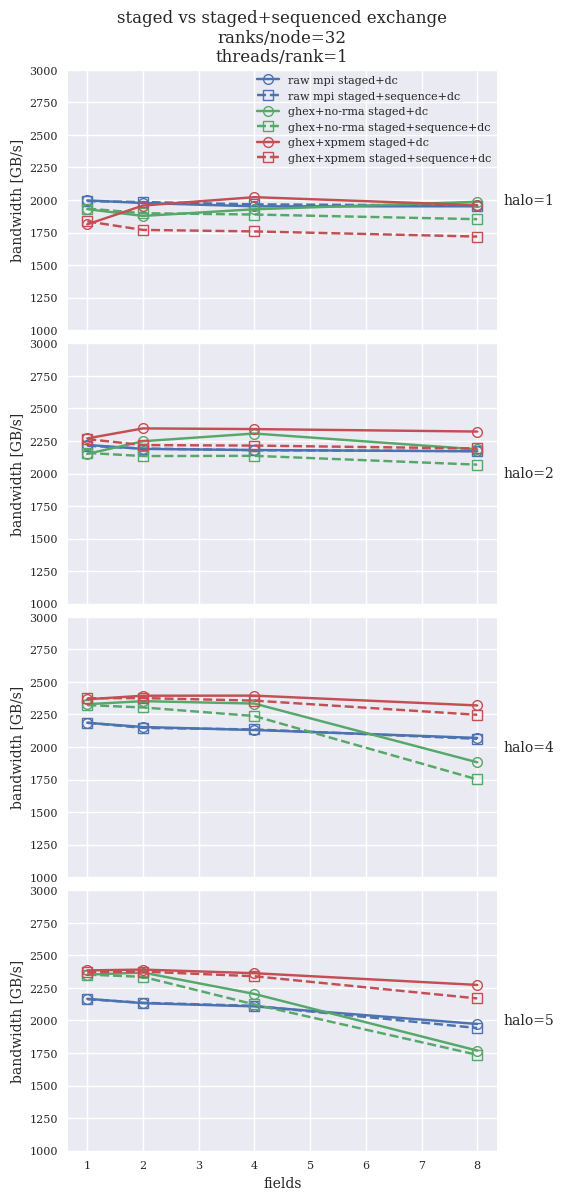
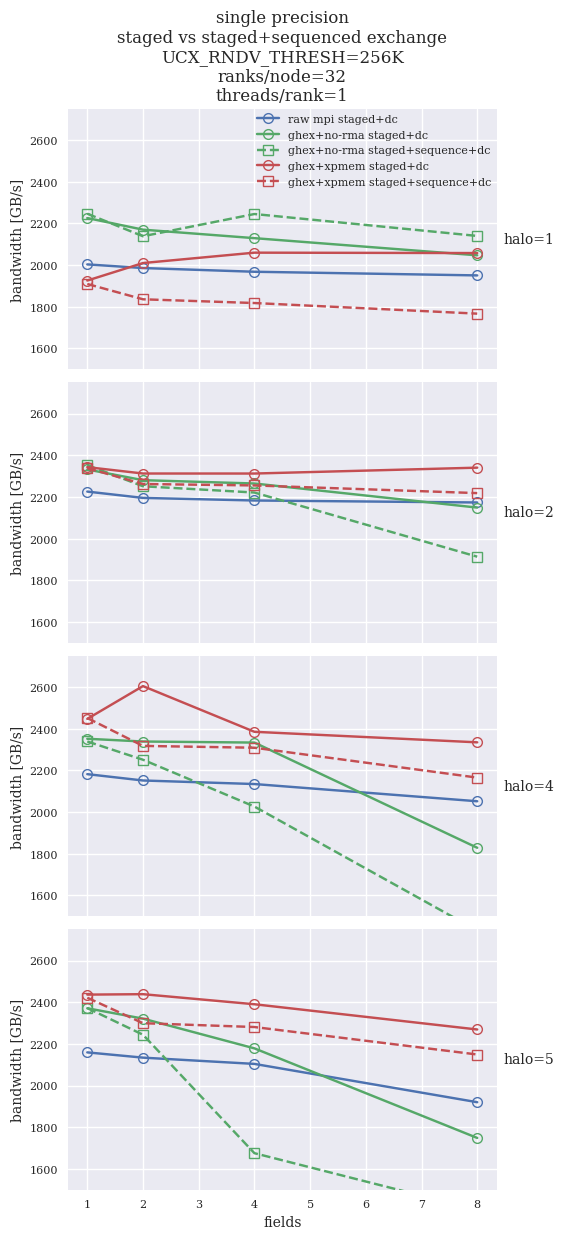
rndv threashold more results

diff --git a/results/betzy/27_nodes/plots.md b/results/betzy/27_nodes/plots.md
@@ -1,34 +1,53 @@
-## Comparison of various 27-nodes results
+## 27-nodes results for `halfcores` configuration
 
-All tests have been run with 64^3 per-rank grids, `halfcores` (64 ranks per compute node, `hwcart` decomposition  
-`--node 3 3 3 --socket 1 1 2 --numa 1 2 2 --l3 2 2 1 --core 2 1 1`.
+27 nodes are the smallest number of compute nodes, for which the communication pattern is representative
+of a large-scale computation. For single-node tests all data transfers are local, and hence the fabric
+is not used. For less than 27 nodes, some nodes will effectively be both left- and right-side neighbor,
+hence the communication pattern is different than for real-world applications. With 27 nodes, each node
+has to effectively distribute the halos to 26 other compute nodes.
+
+Below are results of weak-scaling runs with a 64^3 computational grid per-rank. Unless otherwise stated
+we used a single precision `float`. `halfcores` configuration was used with 64 ranks per compute node, 
+`hwcart` decomposition `--node 3 3 3 --socket 1 1 2 --numa 1 2 2 --l3 2 2 1 --core 2 1 1`.
 
 Plots present cumulative effective memory bandwidth of the exchange operation (more=better).
 
-[Standard algorithm](#standard-algorithm)  
-&nbsp; &nbsp;  [`impi` vs `ompi`](#impi-vs-ompi)  
-&nbsp; &nbsp;  [UCX vs MPI](#ucx-vs-mpi)  
-[Staged algorithm](#staged-algorithm)  
-&nbsp; &nbsp;  [`impi` vs `ompi`](#impi-vs-ompi-1)  
-&nbsp; &nbsp;  [UCX vs MPI](#ucx-vs-mpi-1)  
-[Sequenced algorithm](#sequenced-algorithm)  
+* [Standard algorithm](#standard-algorithm)  
+    * [Impact of `UCX_RNDV_THRS`](#impact-of-ucx_rndv_thresh)  
+    * [Infiniband transport (DC vs UD)](#infiniband-transport-dc-vs-ud)  
+    * [UCX vs MPI](#ucx-vs-mpi)  
+    * [`impi` vs `ompi`](#impi-vs-ompi)  
+* [Staged algorithm](#staged-algorithm)  
+    * [Infiniband transport (DC vs UD)](#infiniband-transport-dc-vs-ud-1)  
+    * [UCX vs MPI](#ucx-vs-mpi-1)  
+    * [`impi` vs `ompi`](#impi-vs-ompi-1)  
+* [Sequenced algorithm](#sequenced-algorithm)  
+    * [Standard vs. sequenced](#standard-vs-sequenced)  
+    * [Staged vs. sequenced+staged](#staged-vs-sequencedstaged)
+* [`single` vs `double`](#single-vs-double)  
 
 ### Standard algorithm
 
-Standard algorithm means that each rank performs explicit halo exchanges with each of the 26 neigobors. For
-multiple fields the data is packed into a single array and sent in one large message.
+In the *standard algorithm* each rank performs explicit halo exchanges with each of the 26 neigobors. For
+multiple fields the halo data is packed into a single array and sent in one large message.
 
 The standard algorithm is implemented in all the `ghex` variants of the benchmark. 
 The raw MPI version of the benchmark implements the [staged algorithm of the 3D halo exchange](#staged-algorithm).
+As will be seen in the plots, the standard algorithm is in general inferior in performance to the
+raw MPI implementation, but there are important exceptions.
 
-#### `impi` vs `ompi`
+#### Impact of `UCX_RNDV_THRESH`
 
-Only `benchmark_mpi_comm` was executed with the Intel compiler. The problem is that
-the `ghex_comm` variants take much too long time to initialize. From the comparison it
-seems that Intel MPI is considerably worse for small halos, and starts to perform similar
-starting from halo ~4.
+The default value of `UCX_RNDV_THRESH` (the onset of large message transfer with zero-copy RMA) 
+in UCX is 8KB for the send/recv methods used in GHEX. It turns out that the performace is in most cases 
+better on this architecture when `UCX_RNDV_THRESH=256K` and
+`UCX_ZCOPY_THRESH=256K`. The figure below shows the impact of running GHEX and the raw MPI codes with and without overriding 
+`UCX_RNDV_THRESH` and `UCX_ZCOPY_THRESH` (always both values are set to 256K).
+Notably, the largest impact is observed for halo 1, in which case this setting results in GHEX performing significantly
+better than the raw MPI implementation. This is not the case for larger halos: in this case raw MPI implementation is
+better.
 
-![ompi vs. impi](betzy_ompi_vs_impi.png)
+![ompi vs. impi](betzy_standard+dc_vs_standard+dc+thrs.png)
 
 #### Infiniband transport (DC vs UD)
 
@@ -49,45 +68,42 @@ Here we compare the two supported backends - UCX and MPI - with both DC (left) a
 We can again see that the UD transport affects the performance of both `ghex+no-rma` variants, and that DC is clearly
 better in this case.
 
-UCX yields better performance for most `no-rma` variants, but seems to be worse for the `xpmem` variant. 
-The reasons are not understood.
+UCX is sometimes worse than the MPI version. The reasons are not understood, but this difference can likely be 
+removed by optimizing the `UCX_RNDV_THRESH` parameters, as is the case with the [staged algorithm.](#staged-algorithm)
 
-In most cases the raw MPI implementation is better than any of the `ghex` variants. Interestingly, the MPI backend
-does well for halo 1. This is NOT the case for the UCX backend, which is also not understood.
+Except for halo 1 the raw MPI implementation is better than any of the standar `ghex` variants.
 
 
 UCX vs MPI, DC transport             |  UCX vs MPI, UD transport
 :-------------------------:|:-------------------------:
 ![](betzy_ucx+dc_vs_mpi+dc.png)  |  ![](betzy_ucx+ud_vs_mpi+ud.png)
 
+#### `impi` vs `ompi`
+
+Only `benchmark_mpi_comm` was executed with the Intel compiler. The problem is that
+the `ghex_comm` variants take much too long time to initialize. From the comparison it
+seems that Intel MPI is considerably worse for small halos, and starts to perform similar
+starting from halo ~4.
+
+![ompi vs. impi](betzy_ompi_vs_impi.png)
+
 
 ### Staged algorithm
 
-The staged algorithm of the 3D halo exchange performs 3 ordered one-dimensional halo exchanges one after another.
+The staged algorithm of 3D halo exchange performs 3 ordered one-dimensional halo exchanges one after another.
 The subsequent steps also distribute the data received in previus steps, hence the algorithm is equivalent to a full 
-halo exchange with 26 neighbors. However, it performs the exchange in 6 messages rather than 26, which as will be demonstrated
-has a signifficant impact on performance.
-
-#### `impi` vs `ompi`
-
-Here all the benchmarks are compared for both compilers, as in the case of the staged algorithm the overhead
-of the initialization phase has been eliminated.
-
-For small halos, the raw MPI version performs better with `ompi`. For halo size 4+ performance is more similar,
-with `ompi` still having a small advantage`.
-
-In general, for all `ghex` variants performance is better with `ompi` than `impi`. However, it should be noted that
-the `no-rma` variant seems to scale differently with `impi`: for halo 4 and 5 the performance curve is roughly flat, 
-while for `ompi` the performance starts high, and then falls for 4 and 8 fields.
-
-![staged ompi vs. impi](betzy_staged+ompi_vs_staged+impi.png)
+halo exchange with 26 neighbors. However, it performs the exchange in 6 messages rather than 26, which has a signifficant 
+impact on performance.
 
 #### Infiniband transport (DC vs UD)
 
-The below plot shows performance of `ghex+ucx` variants with different IB transport. 
-For halo 1 all codes yield roughly similar performance as the raw MPI implementation, except for maybe 1 field.
-The `no-rma` variant is slightly worse for small problems.
+The below plot shows performance of `ghex+ucx` variants with different IB transport. For raw MPI implementation
+the choice of the transport is not important, except for a small difference for halo 1 (UD is better).
+For GHEX, the larger the problem, the better DC is performing.
 
+In general, GHEX can always outperform the raw MPI implementation. For halo 1 and 1-4 fields it's best to use
+the `no-rma` variant. In all other cases `xpmem` variant is equally good, or better. Note that for halo 1 it still seems to
+be better to use the [standard algorithm](#infiniband-transport-dc-vs-ud).
 For halos larger than 1 we see a clear advantage of the `xpmem` variant with the DC transport. It outperforms the raw
 MPI version for all number of fields. 
 
@@ -96,39 +112,54 @@ MPI version for all number of fields.
 #### UCX vs MPI
 
 Here we compare the two supported backends - UCX and MPI - with both DC (left) and UD (right) transports.
-We can again see that the UD transport affects the performance of both `ghex+no-rma` variants, and that DC is clearly
-better in this case.
+We can again see that the UD transport negatively affects the performance in most cases.
 
-As with the standard algorithm, UCX yields better performance for most `no-rma` variants. 
-The situation is more complex for the `xpmem` variant. While UCX is better in the UD case, there
-seems to be a cross-over in the DC case and halo 4 and 5: for small number of fields the MPI version is better.
-For large number of fields the UCX takes over and is sometimes much better (halo 4). Again, this is not understood and 
-needs clarification. Maybe UCX performance can be improved.
-
-In the staged method, in most cases the raw MPI implementation is worse than `ghex+xpmem` variants. For small number of fields
-the `no-rma` variants are also better, but then the performance drops. This is maybe connected with the packing/unpacking
-to a single buffer. As in the standard case, the MPI backend does well for halo 1. This is NOT the case for the UCX backend, 
-which is also not understood. There should not be a qualitative difference between those two backends.
-
+As expected, both UCX and MPI backends show very similar performance for the DC transport. There are
+small differences in the UD case.
 
 UCX vs MPI, DC transport             |  UCX vs MPI, UD transport
 :-------------------------:|:-------------------------:
 ![](betzy_staged+ucx+dc_vs_staged+mpi+dc.png)  |  ![](betzy_staged+ucx+ud_vs_staged+mpi+ud.png)
 
+#### `impi` vs `ompi`
+
+In the case of the staged algorithm the overhead of the initialization phase has been eliminated, hence all the benchmarks 
+are compared for both compilers.
+
+In general, when using `UCX_RNDV_THRESH=256K` `ompi` is performing much better than `impi`. Tuning the Intel MPI
+could reduce this gap, but it has not been done.
+
+![staged ompi vs. impi](betzy_staged+ompi_vs_staged+impi.png)
+
 
 ### Sequenced algorithm
 
 The sequenced algorithm performs halo exchange for each field individually, rather than packing all data for all
-fields into a single buffer.
+fields into a single buffer. 
 
-In general, the sequenced algorithm performs not much different than the standard algorithm. Some negative effect
-is seen for the `xpmem` variant for halo 1.
+#### Standard vs. sequenced
+
+In general, the sequenced algorithm performs worse than the standard algorithm on this
+architecture. Performance is slightly improved by using the default `UCX_RNDV_THRESH` value, but it is still not
+better than the raw MPI implementation.
 
 ![](betzy_standard_vs_sequence.png)
 
 #### Staged vs. sequenced+staged
 
-A clean staged alorithm is clearly a better than steged and sequenced algoritm: field-by-field exchange slightly
-decreases the performance. \
+A clean staged alorithm is clearly a better than steged and sequenced algoritm: field-by-field exchange
+decreases the performance when using `UCX_RNDV_THRESH=256K`. The impact is different depending on that setting,
+but nevertheless we did not see performance better than a pure staged algorithm.
 
 ![](betzy_staged+dc_vs_staged+sequence+dc.png)
+
+
+### `single` vs `double`
+
+In the single precision case the staged `xpmem` variant struggles for halo 1 performance with 1 and 2 fields.
+In the double precision case this variant is clearly best for all tested halo sizes and number of fields.
+The gap between GHEX performance and raw MPI performance is even larger in this case.
+
+`single` precision         |  `double` precision
+:-------------------------:|:-------------------------:
+![](betzy_staged+ucx+dc_vs_staged+mpi+dc.png)  |  ![](betzy_double_staged+ucx+dc_vs_staged+mpi+dc.png)

diff --git a/results/betzy/README.md b/results/betzy/README.md
@@ -41,20 +41,26 @@ The JUBE XML script is configured through the following tags
 * `single_node`, `27_nodes` : number of nodes used
 * `mpicart`, `hwcart`: Cartesian communicator implementation
 
+## Domain decomposition
+
 The `allcores` configuration started 128 ranks per compute node, 1 rank per each physical core.
 Effectively, 4 cores per L3 cache domain, 16 cores per NUMA node, and 64 cores per socket were started.
 The `halfcores` configuration started 64 ranks per compute node. Every second core was used, 
 hence 2 cores per L3 cache domain, 8 ranks per NUMA node, and 32 ranks per socket were started.
 
-Within each compute node the ranks were organized into a 3D grid. The actual decomposition is mentioned
-for each benchmark. Additionally, for `27_nodes` configurations the nodes were arranged into a 3D grid
-with dimension `[3 3 3]`.
+The below benchmarks present weak scaling, with each rank computing on a 64^3 computational grid.
+Within each compute node the ranks were organized into a 3D grid. With the `hwcart` configuration 
+the ranks were remapped to a memory domain specific rank grid. For example, the `halfnode` distribution
+`--socket 1 1 2 --numa 1 2 2 --l3 2 2 1 --core 2 1 1` results in a `[4 4 4]` rank grid and `[256 256 256]` 
+computational grid per node. For `27_nodes` configurations the nodes were further arranged into a 
+3D cartesian grid with dimension `[3 3 3]` (`--node 3 3 3`).
+Hence the dimensions of the global computational grid was `[768 768 768]`.
 
-When using the `mpicart` configuration the rank neighborhood was determined by the `MPI_Cart_*` communicator.
-In that case the rank to compute node assignment was done automatically by MPI. Running the benchmark
-only required specifying the global rank grid dimensions, e.g., ``--MPICart 12 12 12``. 
-With the `hwcart` configuration the ranks were remapped to a memory domain specific rank grid.
-For example, `--socket 1 1 2 --numa 1 2 2 --l3 2 2 1 --core 2 1 1`.
+When using `mpicart` the rank neighborhood was determined by the `MPI_Cart_*` communicator
+and the rank to compute node assignment was done automatically by MPI. For `ompi` we used
+`-map-by ppr:32:socket:pe=2 -bind-to core` for `halfcore` setups and `-map-by ppr:64:socket:pe=1 -bind-to core` for 
+`allcores` setups. In case of `impi` an equivalent pinning scheme was used. Running the benchmark
+only required specifying the global rank grid dimensions, e.g., `--MPICart 12 12 12`.
 
 ## Benchmark results
 The computational grid was periodic in all dimensions. Single precision, 32-bit floats were used.
